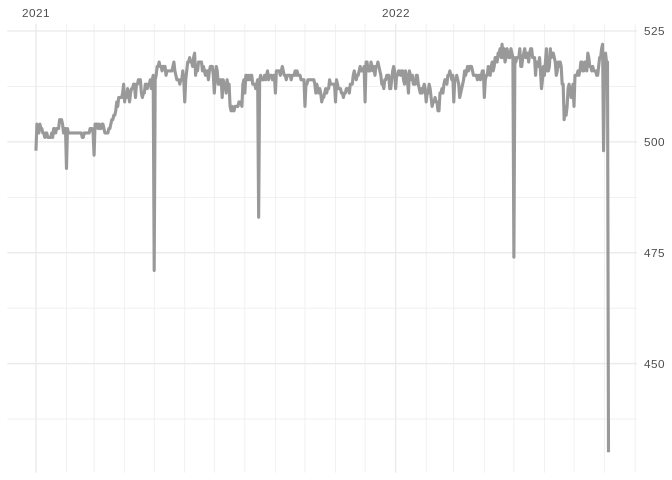
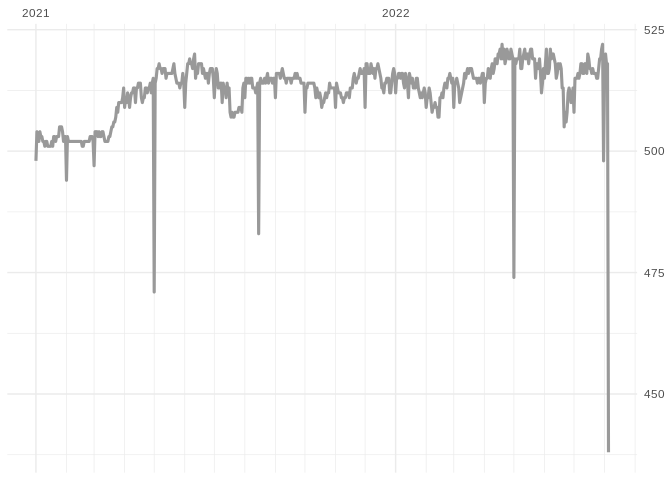
updating readme.md

diff --git a/readme.md b/readme.md
@@ -1,7 +1,7 @@
 
 # ODES DB
 
-Updated on 2022-08-04 08:18:55
+Updated on 2022-08-04 12:17:09
 
 -----
 
@@ -13,7 +13,7 @@ Count of last 2 week:
 
 | fecha\_hora |   n |
 | :---------- | --: |
-| 2022-08-05  | 430 |
+| 2022-08-05  | 438 |
 | 2022-08-04  | 518 |
 | 2022-08-03  | 518 |
 | 2022-08-02  | 520 |
@@ -36,7 +36,7 @@ Count of last 12 months:
 
 | fecha\_hora |      n |
 | :---------- | -----: |
-| 2022-08-01  |  2,501 |
+| 2022-08-01  |  2,509 |
 | 2022-07-01  | 16,000 |
 | 2022-06-01  | 15,445 |
 | 2022-05-01  | 16,025 |
@@ -57,7 +57,7 @@ Count of last 10 years:
 
 | fecha\_hora |       n |
 | :---------- | ------: |
-| 2022-01-01  | 111,718 |
+| 2022-01-01  | 111,726 |
 | 2021-01-01  | 186,549 |
 | 2020-01-01  | 184,271 |
 | 2019-01-01  | 181,752 |
